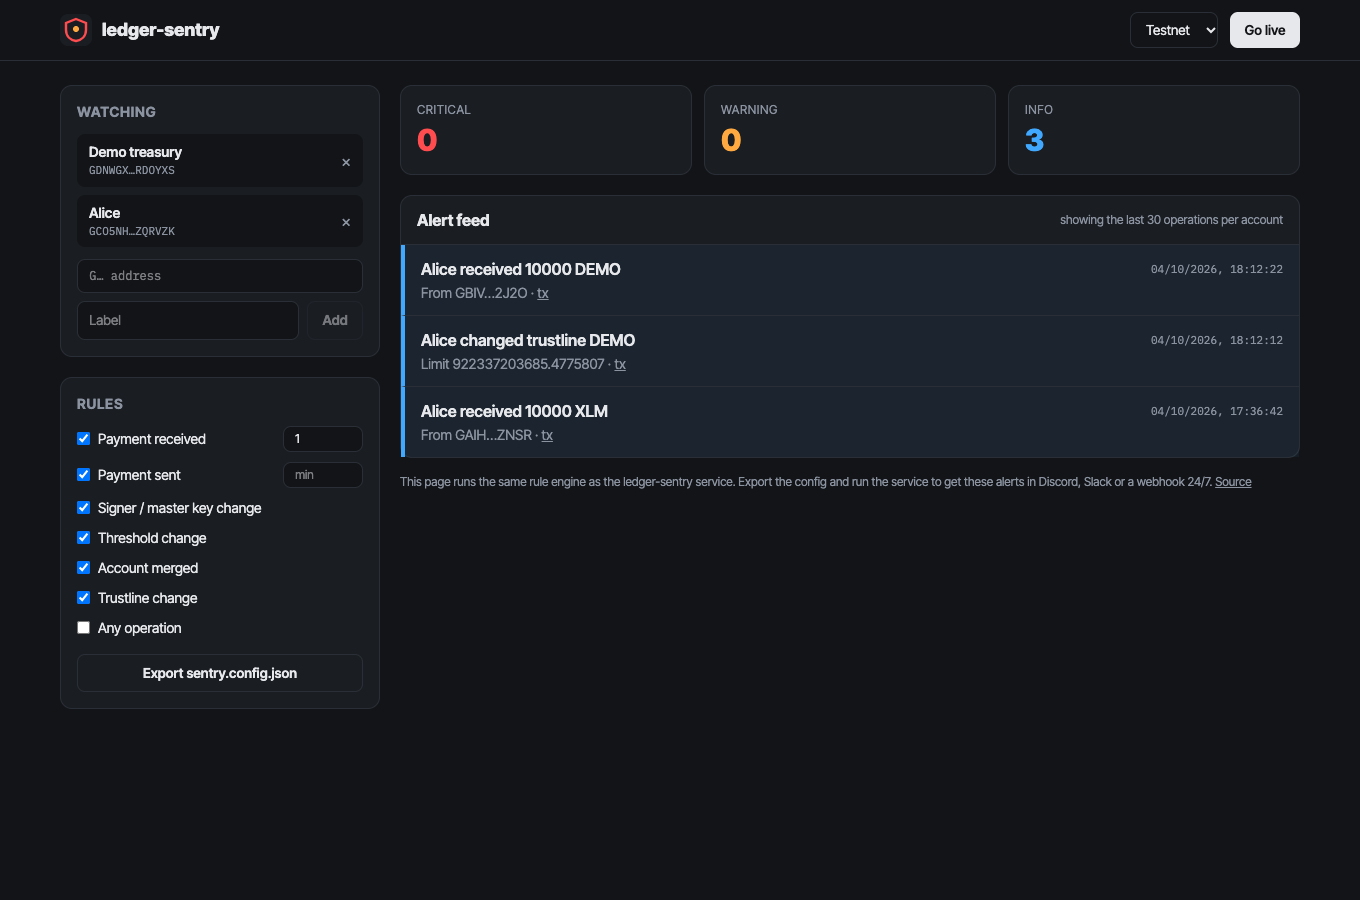
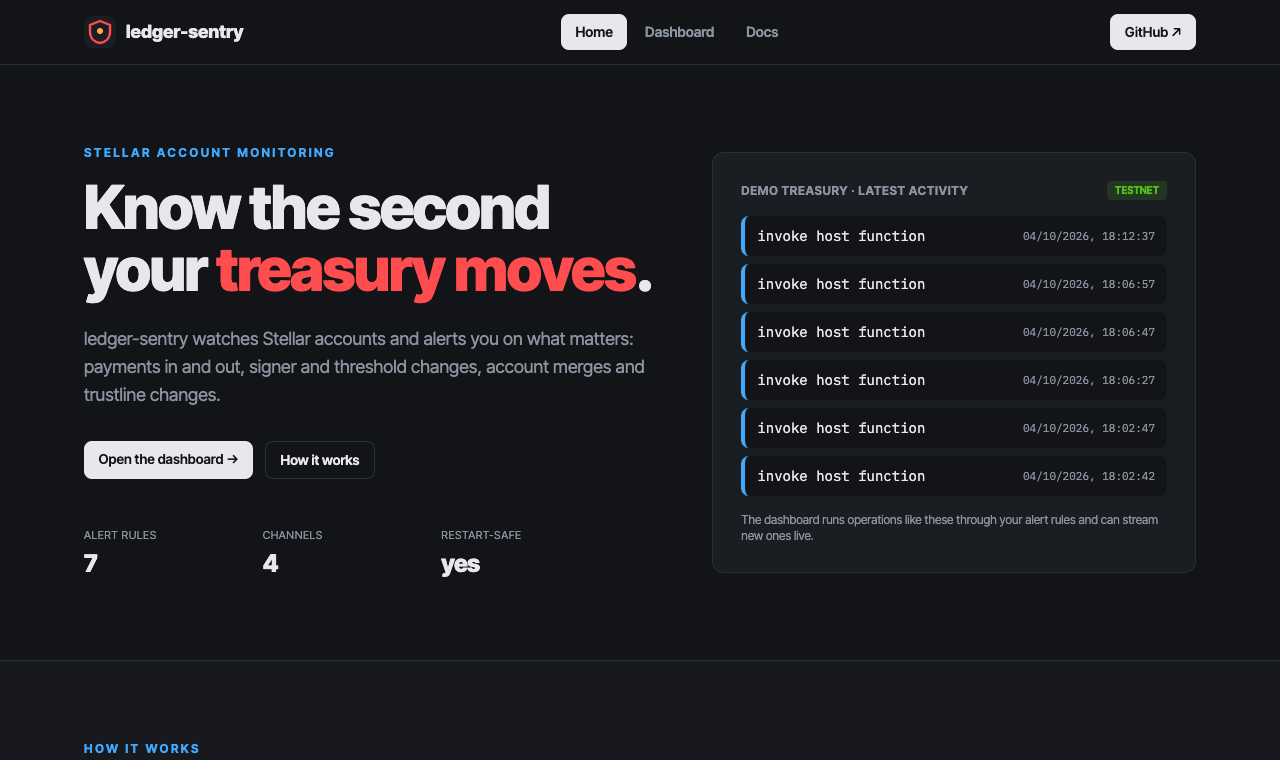
Docs: install from source, new notifier and reliability options

diff --git a/README.md b/README.md
@@ -18,7 +18,10 @@ https://stellar.expert/explorer/public/tx/9f3c…
 ## Quick start
 
 ```bash
-npm install -g ledger-sentry          # or clone + npm install && npm run build
+# not published to npm yet: install from source
+git clone https://github.com/Derinsolababy/ledger-sentry && cd ledger-sentry
+npm install && npm run build && npm link   # puts `ledger-sentry` on your PATH
+
 cp sentry.config.example.json sentry.config.json
 export DISCORD_WEBHOOK_URL=https://discord.com/api/webhooks/…
 ledger-sentry sentry.config.json
@@ -31,6 +34,8 @@ ledger-sentry sentry.config.json
   "horizonUrl": "https://horizon.stellar.org",
   "explorerTxUrl": "https://stellar.expert/explorer/public/tx/{hash}",
   "cursorFile": ".sentry-cursors.json",
+  "stallCheckMinutes": 5,
+  "healthPort": 8787,
   "accounts": [{ "address": "GBRP…OX2H", "label": "Treasury" }],
   "rules": [
     { "type": "payment_received", "minAmount": 100 },
@@ -43,7 +48,8 @@ ledger-sentry sentry.config.json
   "notifiers": [
     { "type": "console" },
     { "type": "discord", "webhookUrl": "${DISCORD_WEBHOOK_URL}" },
-    { "type": "slack", "webhookUrl": "${SLACK_WEBHOOK_URL}" },
+    { "type": "slack", "webhookUrl": "${SLACK_WEBHOOK_URL}", "minSeverity": "critical", "digestMinutes": 1440 },
+    { "type": "telegram", "botToken": "${TELEGRAM_BOT_TOKEN}", "chatId": "${TELEGRAM_CHAT_ID}" },
     { "type": "webhook", "url": "https://ops.example/alerts", "headers": { "authorization": "Bearer ${OPS_TOKEN}" } }
   ]
 }
@@ -53,6 +59,13 @@ ledger-sentry sentry.config.json
 and tokens never have to live in the file. The config is validated at
 startup with clear error messages (bad addresses, unknown rules, non-https
 webhooks).
+
+### Notifiers
+
+`console`, `discord`, `slack`, `telegram` (Bot API `botToken` + `chatId`) and `webhook` (raw alert JSON, optional headers). Every notifier also accepts:
+
+- `minSeverity` (`info` | `warning` | `critical`): alerts below it aren't sent right away.
+- `digestMinutes`: with `minSeverity`, the lower-severity alerts are collected and sent as one digest message every N minutes (e.g. critical alerts instantly, a daily digest of payments). Pending digests are flushed on shutdown.
 
 ### Rules
 
@@ -76,6 +89,9 @@ webhooks).
   aren't retried, since retrying a misconfigured webhook won't help.
 - **One broken channel doesn't silence the rest.** Each notifier fails
   independently and the error is logged.
+- **One alert per operation.** A payment between two watched accounts reaches both streams but alerts once.
+- **Stall detection.** Every `stallCheckMinutes` (default 5, `0` disables) each stream is compared with Horizon's latest operation for the account; if Horizon is ahead and nothing has arrived for a minute, the stream is restarted from the saved cursor.
+- **Health check.** With `healthPort`, `GET /health` returns per-account cursor, last event, restarts and stall state (HTTP 503 while a stream is stalled), for uptime monitors.
 - Streams reconnect automatically, and SIGINT/SIGTERM shut down cleanly.
 
 ## Use it as a library
@@ -98,6 +114,10 @@ npm run lint && npm run typecheck && npm run build
 ## Web app
 
 ![ledger-sentry web app](docs/assets/web-app.png)
+
+The site has three pages: **Home** (what it does, with live testnet data), **App** (the tool itself) and **Docs** (getting started, concepts, reference and FAQ).
+
+![ledger-sentry app page](docs/assets/web-app-page.png)
 
 A live monitoring dashboard at `web/`, running the service's own rule engine in the browser:
 
